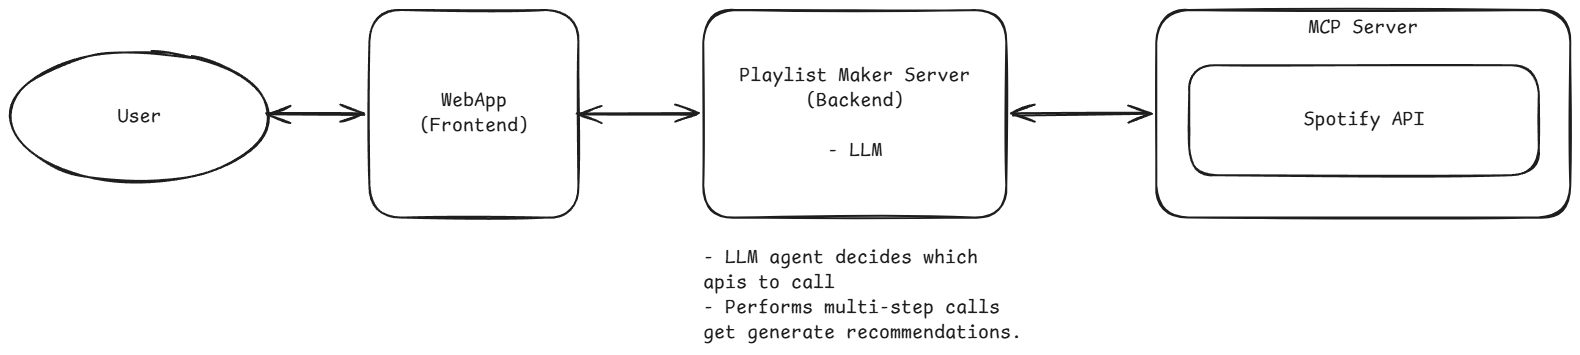
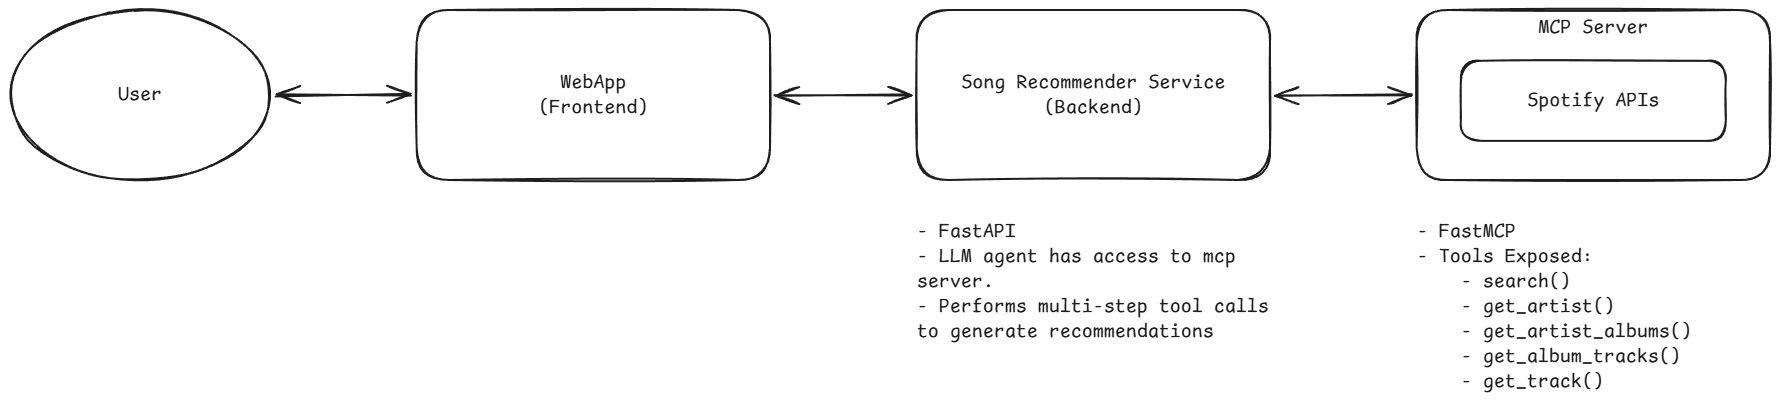
update: arch diagram

diff --git a/README.md b/README.md
@@ -25,6 +25,8 @@ with `get_artist_albums` / `get_album_tracks` → dedupe and return ~10 concrete
 
 ## Architecture at a glance
 
+![Architecture diagram](HLD.png)
+
 Three independent services. The MCP server owns *all* Spotify access, so the backend never
 touches Spotify directly and stays portable.
 
